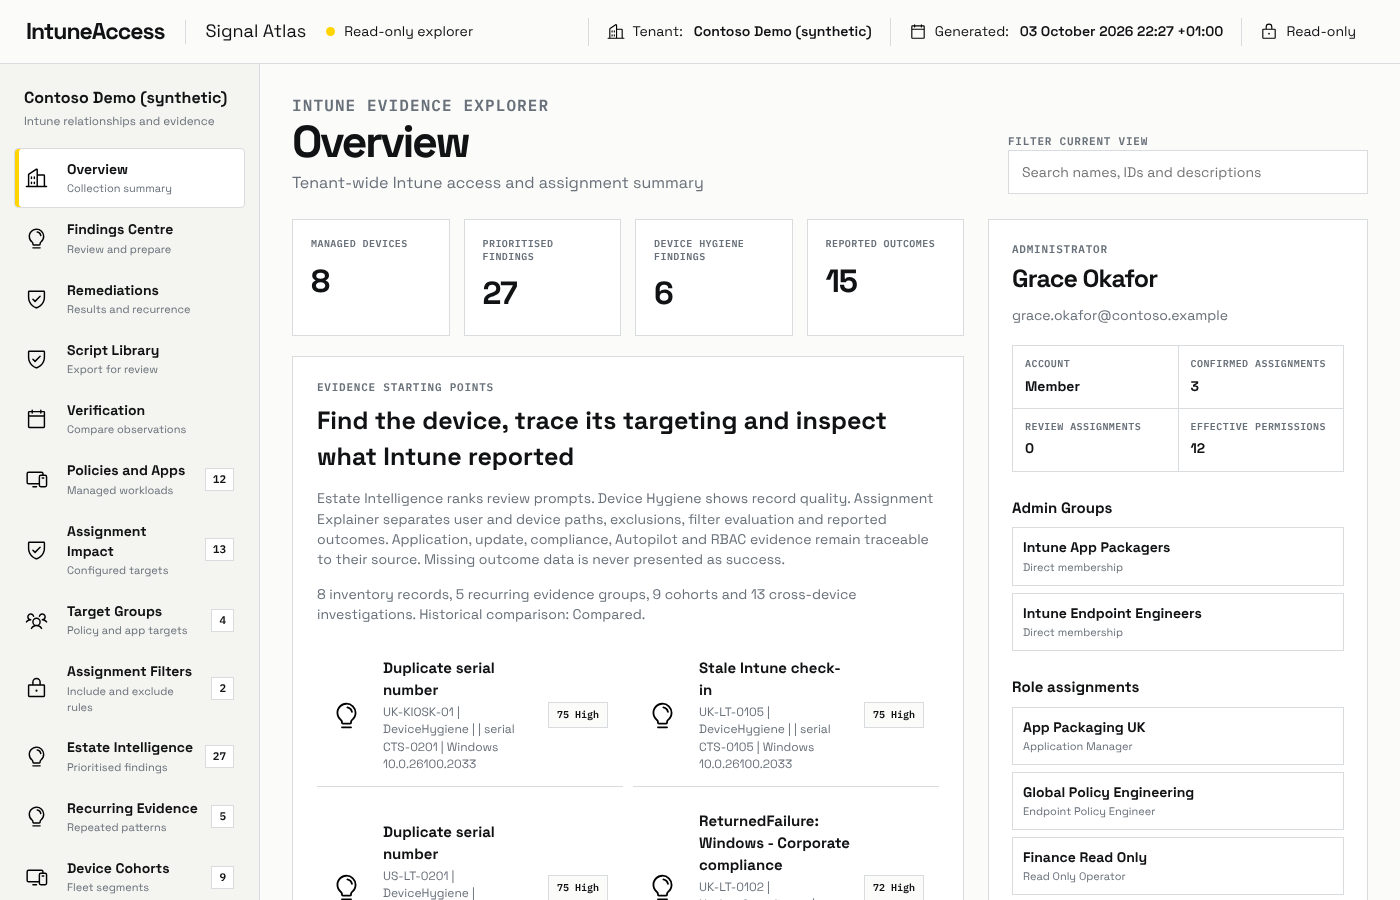
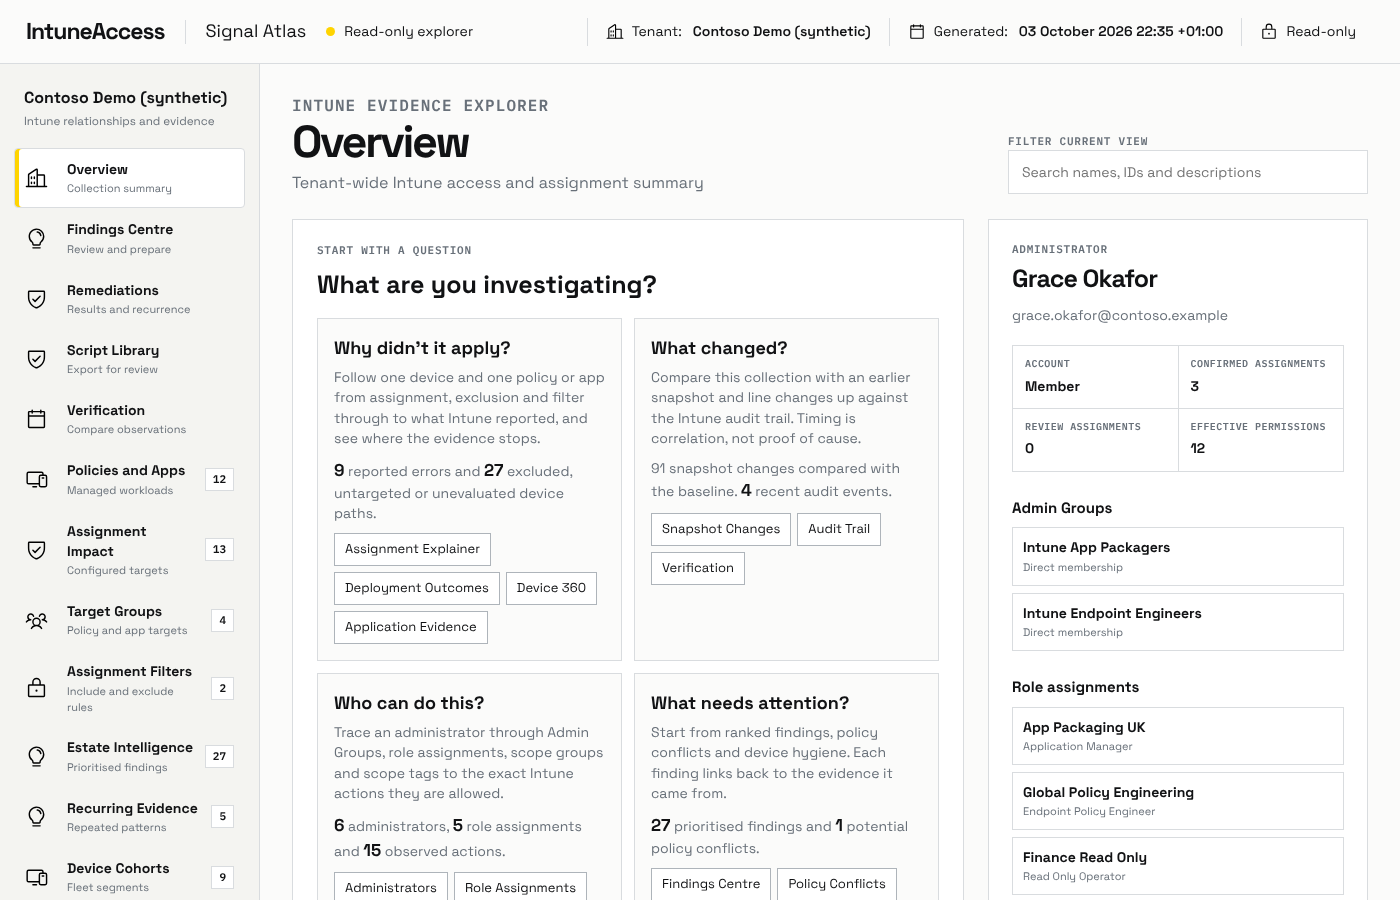
Release 4.1.0: triage landing page, demo metadata and single-source version
Open the report on four everyday questions with counts and links to the
sections that answer them, stop narrow screens scrolling to the inspector
on load, make the fictional demo page indexable, read the module version
from the manifest and record 4.1.0 release notes and changelog.

diff --git a/RELEASE_NOTES.md b/RELEASE_NOTES.md
@@ -1,4 +1,35 @@
-# IntuneAccess 4.0.0
+# IntuneAccess 4.1.0
+
+This release makes the report easier to start with and easier to evaluate. It adds no Microsoft Graph permissions and does not change what is collected.
+
+## Start with a question
+
+The report now opens on a triage section built around the questions administrators are asked most often:
+
+1. Why didn't it apply? Links to the Assignment Explainer, Deployment Outcomes, Device 360 and Application Evidence, with counts of reported errors and excluded, untargeted or unevaluated device paths.
+2. What changed? Links to Snapshot Changes, the Audit Trail and Verification, and states clearly when no baseline snapshot was supplied.
+3. Who can do this? Links to Administrators, Role Assignments, Permissions and Scope Tags.
+4. What needs attention? Links to the Findings Centre, Policy Conflicts and Device Hygiene.
+
+On narrow screens the report now opens at the top instead of scrolling to the inspector.
+
+## Live demonstration report
+
+A demonstration report is published at https://controlaltdeletetechbits.github.io/intune-access/. It is produced by the real collection and report code from a fictional tenant served by an offline synthetic Graph back end that accepts GET requests only. Run `./tools/New-IntuneAccessDemo.ps1` to build it locally. CI now generates it on every change as an end-to-end smoke test.
+
+## Fixes
+
+1. Snapshot comparison no longer reports records as modified when only collection-time fields (`GeneratedAt` and `EvidenceAgeDays`) differ. In a two-snapshot test these accounted for more than half of the reported changes.
+2. The module version is now read from the manifest, removing duplicated version strings.
+
+## Documentation
+
+1. Documents that still described 4.0.0 as unpublished have been corrected, and the security policy now supports the current 4.x line only.
+2. The Gallery release procedure is version-neutral and requires a scoped, short-lived API key entered through a hidden prompt.
+3. The Intune Management Extension service package states that Intune cannot deliver its remediation script to a device whose agent is stopped, and recommends an independent delivery route.
+4. The roadmap records 4.2.0 (Scoped permissions readiness) and 5.0.0 (change confidence).
+
+## Previous release: 4.0.0
 
 Published to the PowerShell Gallery and GitHub on 16 September 2026. Exact artefact hashes and final gate receipts are retained by the maintainer outside the package.
 

diff --git a/CHANGELOG.md b/CHANGELOG.md
@@ -2,6 +2,15 @@
 
 All notable project changes are recorded here.
 
+## 4.1.0
+
+1. Report opens on a triage section: why didn't it apply, what changed, who can do this and what needs attention.
+2. Synthetic demonstration report generated by the real pipeline, published to GitHub Pages and run in CI.
+3. Snapshot comparison ignores collection-time fields that previously marked unchanged records as modified.
+4. Narrow screens open at the top of the report.
+5. Module version read from the manifest.
+6. Post-release V4 documentation corrections, version-neutral Gallery procedure and IME package delivery limitation.
+
 ## 4.0.0
 
 1. Findings Centre with affected objects, resolution guides and local expected decisions.
